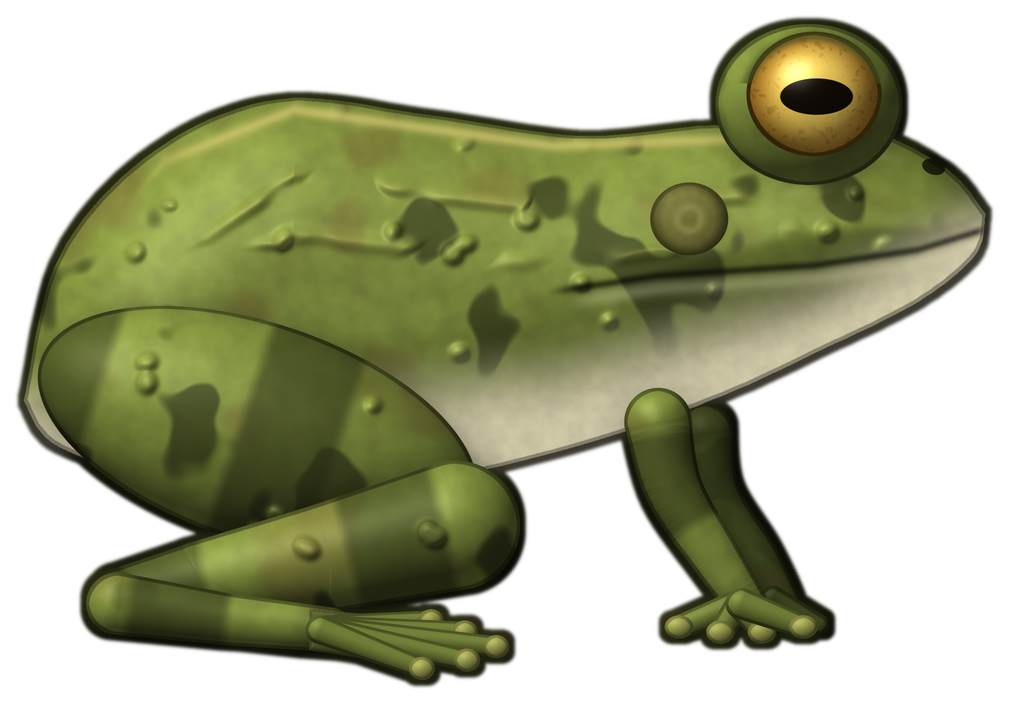
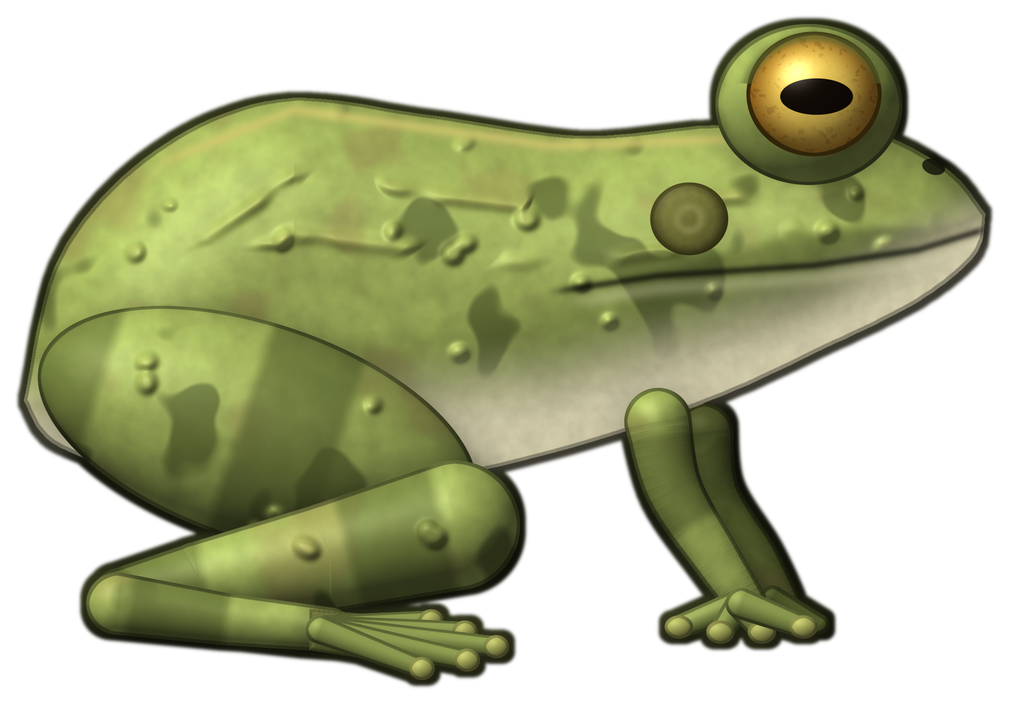
Ếch sáng hơn 1 tone, vẽ cua đồng + ghẹ (moi/ve_cua.py) kiểu cá câu, ô Kho cua đồng / thịt ếch
Claude-Session: https://claude.ai/code/session_01TQanoYXBK6YoK1JcCrXAhg

diff --git a/src/tools/cc/moi/ve_cua.py b/src/tools/cc/moi/ve_cua.py
@@ -1,0 +1,205 @@
+#!/usr/bin/env python3
+# CUA ĐỒNG + GHẸ (11-24 Link "vẽ thêm cua + ghẹ"): cùng kiểu vẽ với cá câu (tô từng điểm ảnh, sáng trên-trái,
+# viền mảnh màu tối của chỗ đó). Nhìn từ trên xuống, càng chĩa lên trên.
+#  cua: mai tròn bè ngang, rãnh chữ H, lấm tấm hạt ở mép trước, càng mập (càng phải to hơn), 4 cặp chân bò có khớp
+#  ghẹ: mai rộng có gai dài 2 bên + răng cưa mép trước, càng dài mảnh có gai, xanh tím đốm trắng, cặp chân cuối là mái chèo
+# Dùng bộ vẽ moi_ve.py ở cỡ x2.4.   python3 ve_cua.py OUTDIR [cua ghe]
+import os, sys, math
+os.environ.setdefault('MOI_SC', '2.4')
+OUTDIR = sys.argv[1] if len(sys.argv) > 1 else '/tmp/claude-0/moi/f'
+WHO = sys.argv[2:] or ['cua', 'ghe']
+sys.argv = [sys.argv[0], OUTDIR]
+sys.path.insert(0, os.path.dirname(os.path.abspath(__file__)))
+from moi_ve import *          # noqa
+import numpy as np
+from scipy import ndimage as ndi
+
+
+def seg_leg(P, pts, rads, col, dark, seed, spots=None, tipcol=None, contact=.3):
+    """chân nhiều đốt: mỗi đốt 1 ống riêng (khớp thắt lại, đốt sau đè đốt trước)"""
+    for i in range(len(pts) - 1):
+        a, b = pts[i], pts[i + 1]
+        mid = ((a[0] + b[0]) / 2, (a[1] + b[1]) / 2)
+        r0, r1 = rads[i], rads[i + 1]
+        m, h, s, sd = tube([a, mid, b], [r0 * .85, max(r0, r1) * 1.02, r1 * .85])
+        L = math.hypot(b[0] - a[0], b[1] - a[1])
+        base = lerpc(col, col * 1.12, sstep(-1, 1, -sd))
+        if tipcol is not None and i == len(pts) - 2:
+            base = lerpc(base, tipcol, sstep(.45, .95, s / L))
+        if spots is not None:
+            sp = specks(seed + i, int(L / 6), min(a[0], b[0]) - 20, min(a[1], b[1]) - 20, max(a[0], b[0]) + 20, max(a[1], b[1]) + 20, 1.6, 3.6, inside=m)
+            base = lerpc(base, spots, sp * .85)
+        base = base * (1 + .05 * noise(1.2, seed + 40 + i))[..., None]
+        c, _ = P.shade(h, base, amb=.42, dif=.74, spec=.12, sp_pow=22)
+        P.put(m, c, edge=dark, contact=contact if i == 0 else .22, cblur=4)
+
+
+def carapace_mask(pts):
+    return poly_mask(cr_path(pts + [pts[0]], 10))
+
+
+def eyes(P, xs, y, stalk, col):
+    for x in xs:
+        m, h, _, _ = tube([(x, y + 14), (x + (x - 256) * .08, y - stalk)], [6.5, 5.5])
+        c, _ = P.shade(h, col, amb=.45, dif=.7)
+        P.put(m, c, contact=.2)
+        ex, ey = x + (x - 256) * .08, y - stalk - 3
+        m, h = ellipse(ex, ey, 8.5, 8.5)
+        c, _ = P.shade(h, hexc('#1a1410'), amb=.6, dif=.4, spec=.35, sp_pow=30)
+        P.put(m, c, edge=hexc('#0c0806'), contact=.2)
+
+
+def claw(P, sx, k, col, dark, tip, seed, spots=None, slim=1.0, spines=False):
+    """càng trái (sx=-1) / phải (1), k = cỡ. Cánh tay gập lên, bàn càng to, 2 ngón chụm vào giữa."""
+    cx = 256
+    X0 = lambda x: cx + sx * x
+    arm = [(X0(80), 220), (X0(118 * slim + 10), 178), (X0(116 * slim + 4), 146)]
+    seg_leg(P, arm, [17 * k, 15 * k, 14 * k], col, dark, seed, spots=spots)
+    if spines:
+        for t in (.3, .55, .8):
+            px = arm[0][0] + (arm[1][0] - arm[0][0]) * t; py = arm[0][1] + (arm[1][1] - arm[0][1]) * t
+            m, h = puff(poly_mask([(px - 4, py), (px + sx * 2 - 8 * sx, py - 13), (px + 4, py - 2)]), 2, .7)
+            c, _ = P.shade(h, col * 1.1, amb=.45, dif=.7)
+            P.put(m, c, edge=dark, contact=.1)
+    # bàn càng: dài theo hướng chĩa lên trên + vào giữa (trước mặt cua), 2 ngón nối tiếp ở đầu bàn, hơi khép vào nhau
+    wx, wy = arm[-1]
+    dx, dy = -sx * .78, -.63
+    dl = math.hypot(dx, dy); dx, dy = dx / dl, dy / dl
+    rot = math.atan2(dy, dx)
+    hx, hy = wx + dx * 34 * k * slim, wy + dy * 34 * k * slim
+    m, h = ellipse(hx, hy, 46 * k * slim, 27 * k, rot, hk=.85)
+    v = -(X - hx) * math.sin(rot) + (Y - hy) * math.cos(rot)          # ngang bàn càng
+    base = lerpc(col * 1.1, col * .86, sstep(-20, 20, v * sx))
+    gran = specks(seed + 20, 40, hx - 50, hy - 50, hx + 50, hy + 50, 1.4, 2.6, inside=m)
+    h = h + gran * 1.4
+    if spots is not None:
+        sp = specks(seed + 21, 28, hx - 50, hy - 50, hx + 50, hy + 50, 2, 4.5, inside=m)
+        base = lerpc(base, spots, sp * .85)
+    c, _ = P.shade(h, base, amb=.42, dif=.75, spec=.14, sp_pow=22)
+    P.put(m, c, edge=dark, contact=.32)
+    ex, ey = wx + dx * 70 * k * slim, wy + dy * 70 * k * slim
+    px_, py_ = -dy, dx                                                  # pháp tuyến
+    for j, side in enumerate((1, -1)):          # ngón cố định (phía ngoài) rồi ngón động
+        o = side * 9 * k
+        sx0, sy0 = ex - dx * 10 * k + px_ * o, ey - dy * 10 * k + py_ * o
+        L = 66 * k * slim
+        pts = [(sx0, sy0)]
+        for t in (.35, .7, 1.0):
+            bend = side * .3 * t * t
+            ca, sa = math.cos(bend), math.sin(bend)
+            ddx, ddy = dx * ca - dy * sa, dx * sa + dy * ca
+            pts.append((sx0 + ddx * L * t, sy0 + ddy * L * t))
+        rr = [11.5 * k, 10 * k, 7 * k, 2.6]
+        m, h, s2, sd = tube(pts, rr)
+        b = lerpc(col * 1.05, tip, sstep(.5, .92, s2 / L))
+        teeth = (np.cos(s2 / 4.2 * 2 * math.pi) > .6) * (np.abs(sd) > .55) * .5
+        b = b * (1 - .25 * teeth * m)[..., None]
+        c, _ = P.shade(h, b, amb=.42, dif=.74, spec=.14, sp_pow=22)
+        P.put(m, c, edge=dark, contact=.25)
+
+
+def cua():
+    P = Pic()
+    col = hexc('#8c6a48'); dark = hexc('#3a2418'); tip = hexc('#4a2a1c')
+    # 4 cặp chân bò (sau mai): thân -> đùi chĩa ra ngoài -> ống gập xuống -> móng nhọn
+    for sx in (-1, 1):
+        for k in range(4):
+            y0 = 236 + k * 30
+            spread = [-.2, .05, .3, .55][k]
+            p0 = (256 + sx * 96, y0)
+            p1 = (256 + sx * (160 - k * 4), y0 - 28 + k * 22)
+            p2 = (256 + sx * (206 - k * 10), y0 - 4 + k * 34)
+            p3 = (256 + sx * (222 - k * 16), y0 + 30 + k * 40)
+            seg_leg(P, [p0, p1, p2, p3], [15, 14, 11, 4], col * (.92 + .03 * k), dark, 100 + k * 7 + (sx > 0) * 50, tipcol=tip)
+    # càng (cua đồng: càng phải to hơn)
+    claw(P, -1, .92, col, dark, tip, 200)
+    claw(P, 1, 1.1, col, dark, tip, 300)
+    # mai: bè ngang, mép trước thẳng giữa 2 mắt, mép trước-bên cong, sau thu hẹp
+    cp = [(256, 182), (300, 184), (340, 196), (366, 224), (372, 258), (358, 296), (326, 326), (256, 342), (186, 326), (154, 296), (140, 258), (146, 224), (172, 196), (212, 184)]
+    cm = carapace_mask(cp)
+    m, h = puff(cm, 70, .85)
+    h = ndi.gaussian_filter(h, 2 * PX)
+    # rãnh chữ H + rãnh cổ cong
+    hg = np.exp(-((np.abs(X - 256) - 26) / 3.0) ** 2) * sstep(222, 236, Y) * (1 - sstep(286, 300, Y))
+    hb = np.exp(-((Y - 262) / 3.0) ** 2) * (np.abs(X - 256) < 26)
+    cg = np.exp(-((Y - (232 + .006 * (X - 256) ** 2)) / 3.4) ** 2) * (np.abs(X - 256) > 30) * (np.abs(X - 256) < 92)
+    groove = np.clip(hg + hb + cg, 0, 1) * m
+    h = h - groove * 1.8
+    gran = specks(5, 160, 150, 182, 362, 270, 1.4, 2.8, inside=cm)
+    gran = gran * (1 - sstep(220, 270, Y))
+    h = h + gran * 1.6
+    base = lerpc(hexc('#9a7a52'), hexc('#6e4e36'), sstep(.2, 1, np.hypot((X - 256) / 116, (Y - 262) / 80)))
+    base = lerpc(base, hexc('#6a3e34'), sstep(.1, .7, noise(8, 6)) * .35)       # ánh tím nâu loang
+    base = base * (1 - .14 * groove)[..., None]
+    c, _ = P.shade(h, base, amb=.42, dif=.76, spec=.14, sp_pow=22)
+    P.put(m, c, edge=dark, contact=.42, cblur=8)
+    eyes(P, (226, 286), 184, 12, col)
+    im = P.save('cua_tmp', ow=2.2)
+    os.replace(os.path.join(OUTDIR, 'ic-cua_tmp.webp'), os.path.join(OUTDIR, 'cua.webp'))
+    im.save(os.path.join(OUTDIR, 'cua.png'))
+
+
+def ghe():
+    P = Pic()
+    col = hexc('#4f78b4'); dark = hexc('#1c2c4a'); tip = hexc('#6a3a7a'); wspot = hexc('#dfe8f2')
+    # 3 cặp chân bò + cặp chân bơi (mái chèo) phía sau
+    for sx in (-1, 1):
+        for k in range(3):
+            y0 = 246 + k * 22
+            p0 = (256 + sx * 100, y0)
+            p1 = (256 + sx * (176 - k * 6), y0 - 22 + k * 22)
+            p2 = (256 + sx * (236 - k * 14), y0 + 4 + k * 30)
+            p3 = (256 + sx * (262 - k * 24), y0 + 50 + k * 40)
+            seg_leg(P, [p0, p1, p2, p3], [12, 11, 9, 3.5], col * (.95 + .03 * k), dark, 400 + k * 7 + (sx > 0) * 50, spots=wspot, tipcol=tip)
+        # chân bơi: đốt dài rồi bản dẹt hình mái chèo
+        p0 = (256 + sx * 82, 312); p1 = (256 + sx * 136, 352); p2 = (256 + sx * 150, 390)
+        seg_leg(P, [p0, p1, p2], [12, 10, 8], col, dark, 470 + (sx > 0) * 9, spots=wspot)
+        m, h = ellipse(256 + sx * 160, 418, 22, 32, sx * .35, hk=.35)
+        vein = np.exp(-(((X - (256 + sx * 160)) * math.cos(sx * .35) + (Y - 418) * math.sin(sx * .35)) / 2) ** 2)
+        b = lerpc(col * 1.05, hexc('#8fb0dc'), sstep(.4, 1, np.hypot((X - 256 - sx * 160) / 22, (Y - 418) / 32)))
+        b = b * (1 - .15 * vein * m)[..., None]
+        c, _ = P.shade(h, b, amb=.48, dif=.66, spec=.1)
+        P.put(m, c, edge=dark, contact=.25)
+    # càng dài mảnh có gai, đốm trắng, mũi tím
+    claw(P, -1, .9, col, dark, tip, 600, spots=wspot, slim=1.35, spines=True)
+    claw(P, 1, .9, col, dark, tip, 700, spots=wspot, slim=1.35, spines=True)
+    # mai: rộng, gai dài nhọn 2 bên, mép trước-bên răng cưa
+    half = []
+    # từ giữa mép trước ra phải: 2 răng trán, hốc mắt, 8 răng cưa, gai dài, mép sau-bên, đuôi
+    half.append((256, 196)); half.append((270, 190)); half.append((278, 198)); half.append((290, 192))
+    for i in range(8):
+        t = (i + 1) / 9
+        a = math.radians(-100 + t * 85)
+        rx, ry = 150, 68
+        x = 256 + math.cos(a) * rx * 1.0 + 10; y = 262 + math.sin(a) * ry * 1.0
+        half.append((x - 3, y + 3)); half.append((x + 4, y - 6))
+    half.append((462, 244)); half.append((404, 268))       # gai dài 2 bên
+    half += [(386, 286), (350, 312), (304, 330), (256, 336)]
+    pts = half + [(512 - x, y) for x, y in reversed(half[1:-1])]
+    cm = poly_mask(pts)
+    m, h = puff(cm, 64, .7)
+    h = ndi.gaussian_filter(h, 1.6 * PX)
+    # 3 gờ ngang mờ + hạt
+    rid = np.zeros_like(h)
+    for yy in (238, 262, 290):
+        rid += np.exp(-((Y - yy - .002 * (X - 256) ** 2) / 4) ** 2) * (np.abs(X - 256) < 120)
+    h = h + rid * 1.6 * m
+    base = lerpc(hexc('#5a86c4'), hexc('#3c5f98'), sstep(.3, 1.1, np.hypot((X - 256) / 160, (Y - 262) / 70)))
+    base = lerpc(base, hexc('#6a5a96'), sstep(.1, .6, noise(9, 8)) * .35)          # ánh tím
+    # mạng đốm trắng xanh (ghẹ xanh đực)
+    net = sstep(.22, .5, noise(3, 9, 2)) * (1 - sstep(.6, .95, np.hypot((X - 256) / 170, (Y - 262) / 78)))
+    base = lerpc(base, wspot, net * .5)
+    sp = specks(10, 90, 110, 196, 402, 330, 1.4, 3, inside=cm)
+    base = lerpc(base, wspot, sp * .6)
+    c, _ = P.shade(h, base, amb=.42, dif=.76, spec=.14, sp_pow=22)
+    P.put(m, c, edge=dark, contact=.42, cblur=8)
+    eyes(P, (232, 280), 196, 11, col)
+    im = P.save('ghe_tmp', ow=2.2)
+    os.replace(os.path.join(OUTDIR, 'ic-ghe_tmp.webp'), os.path.join(OUTDIR, 'ghe.webp'))
+    im.save(os.path.join(OUTDIR, 'ghe.png'))
+
+
+if __name__ == '__main__':
+    os.makedirs(OUTDIR, exist_ok=True)
+    for w in WHO:
+        globals()[w]()

diff --git a/src/tools/cc/fish_one.py b/src/tools/cc/fish_one.py
@@ -16,7 +16,7 @@ KHO = {"ro": "ca_ro", "sac": "ca_sac", "linh": "ca_linh", "mevinh": "ca_mevinh",
        "ho": "ca_ho", "tradau": "ca_tradau"}
 # (11-24 Link "vẽ ếch cá chép với tép") con của lờ / lọp / giăng câu trong vườn, không câu được ở bờ kênh:
 # chỉ có ô Kho (không chép vô gói hình câu cá). Gốc art/cc_fish: chep = ca_ve.py, tep = ca_ve2.py, ech = moi/ve_ech.py
-KHO_ONLY = {"chep": "ca_chep", "tep": "tep", "ech": "ech"}
+KHO_ONLY = {"chep": "ca_chep", "tep": "tep", "ech": "ech", "cua": "cua"}   # ghẹ (art/cc_fish/ghe.webp, ve_cua.py) chưa có món trong vườn
 MAXW = 1200
 a = b = 0
 for fid, kid in list(KHO.items()) + list(KHO_ONLY.items()):

diff --git a/src/tools/cc/moi/ve_ech.py b/src/tools/cc/moi/ve_ech.py
@@ -13,7 +13,7 @@ from moi_ve import *          # noqa
 import numpy as np
 from scipy import ndimage as ndi
 
-OLIVE = hexc('#7d8c3c'); OLIVE_D = hexc('#56632a'); BROWN = hexc('#6e5a2e'); SPOT = hexc('#33391a')
+OLIVE = hexc('#9cad58'); OLIVE_D = hexc('#72813c'); BROWN = hexc('#8c7746'); SPOT = hexc('#56622e')   # (11-24 Link "màu ếch đậm quá, xuống 1 tone": sáng hơn 1 bậc)
 YEL = hexc('#c9c06a'); BELLY = hexc('#f6eec8')
 
 
